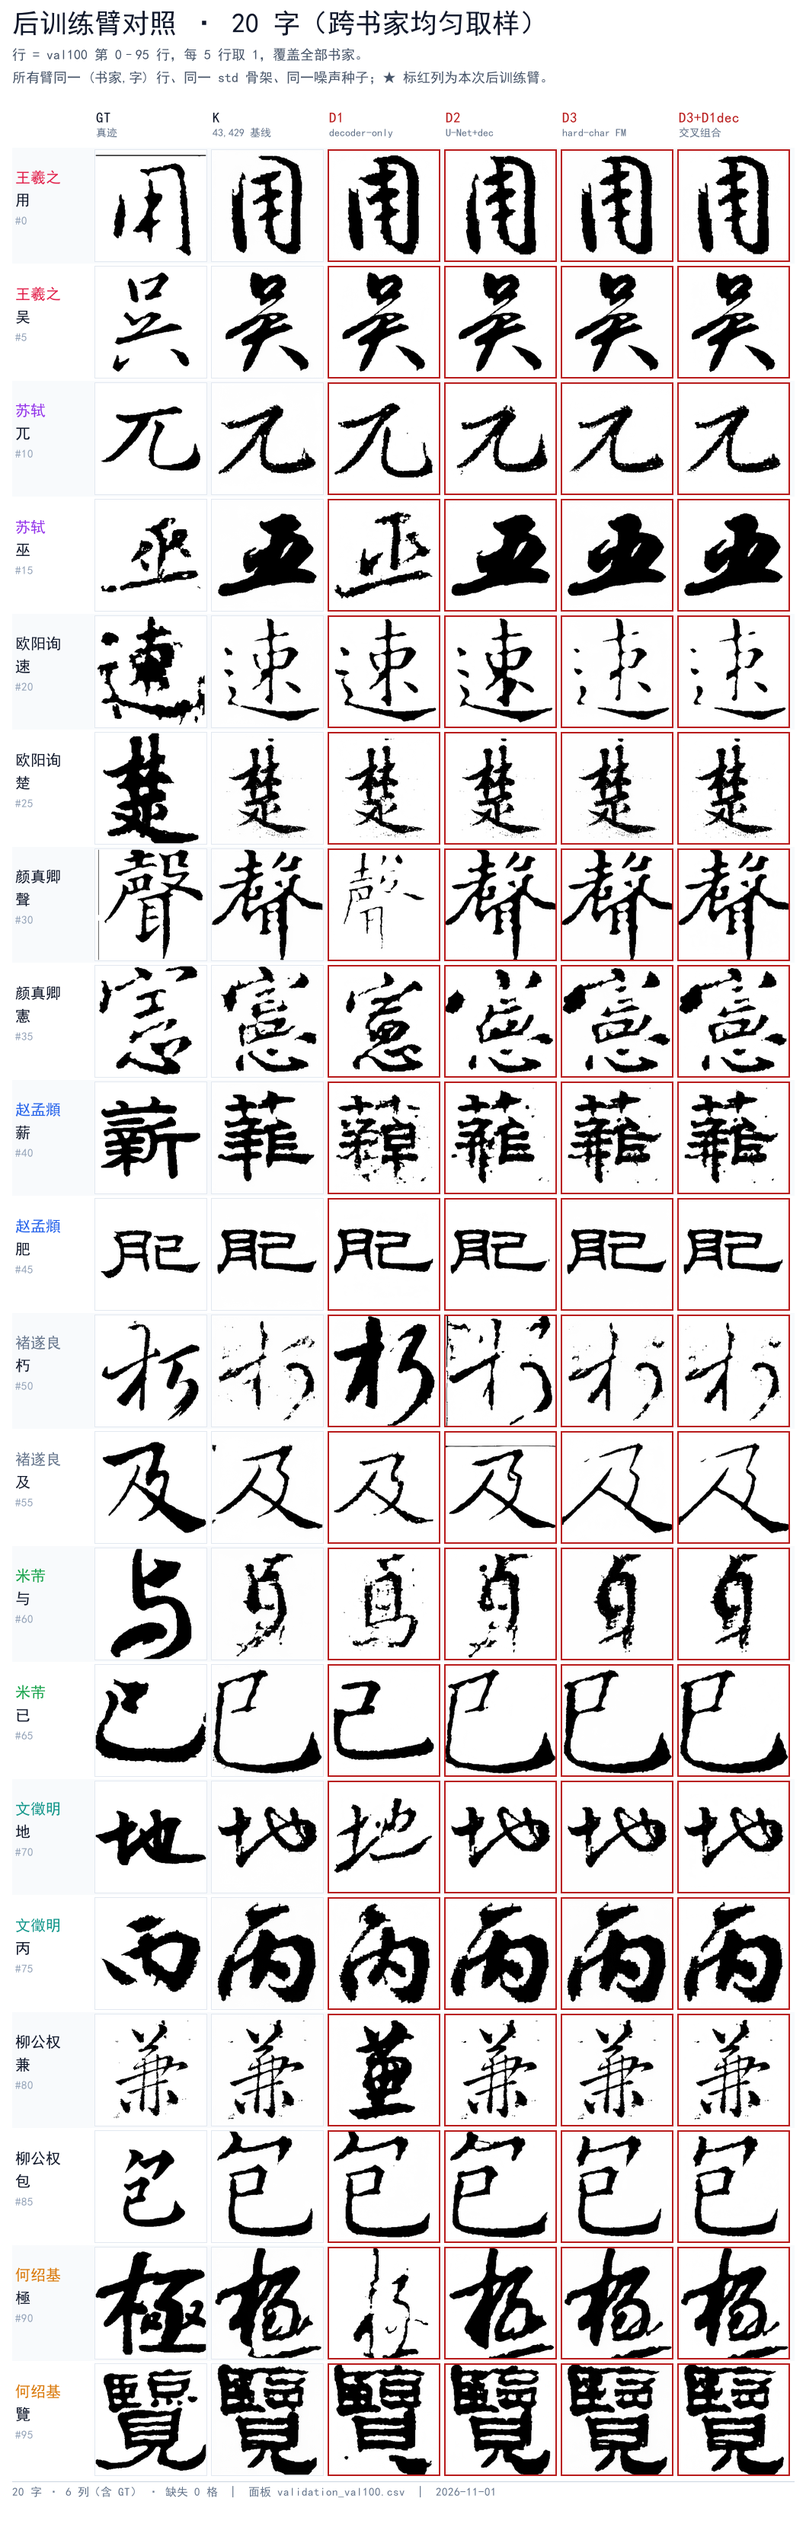
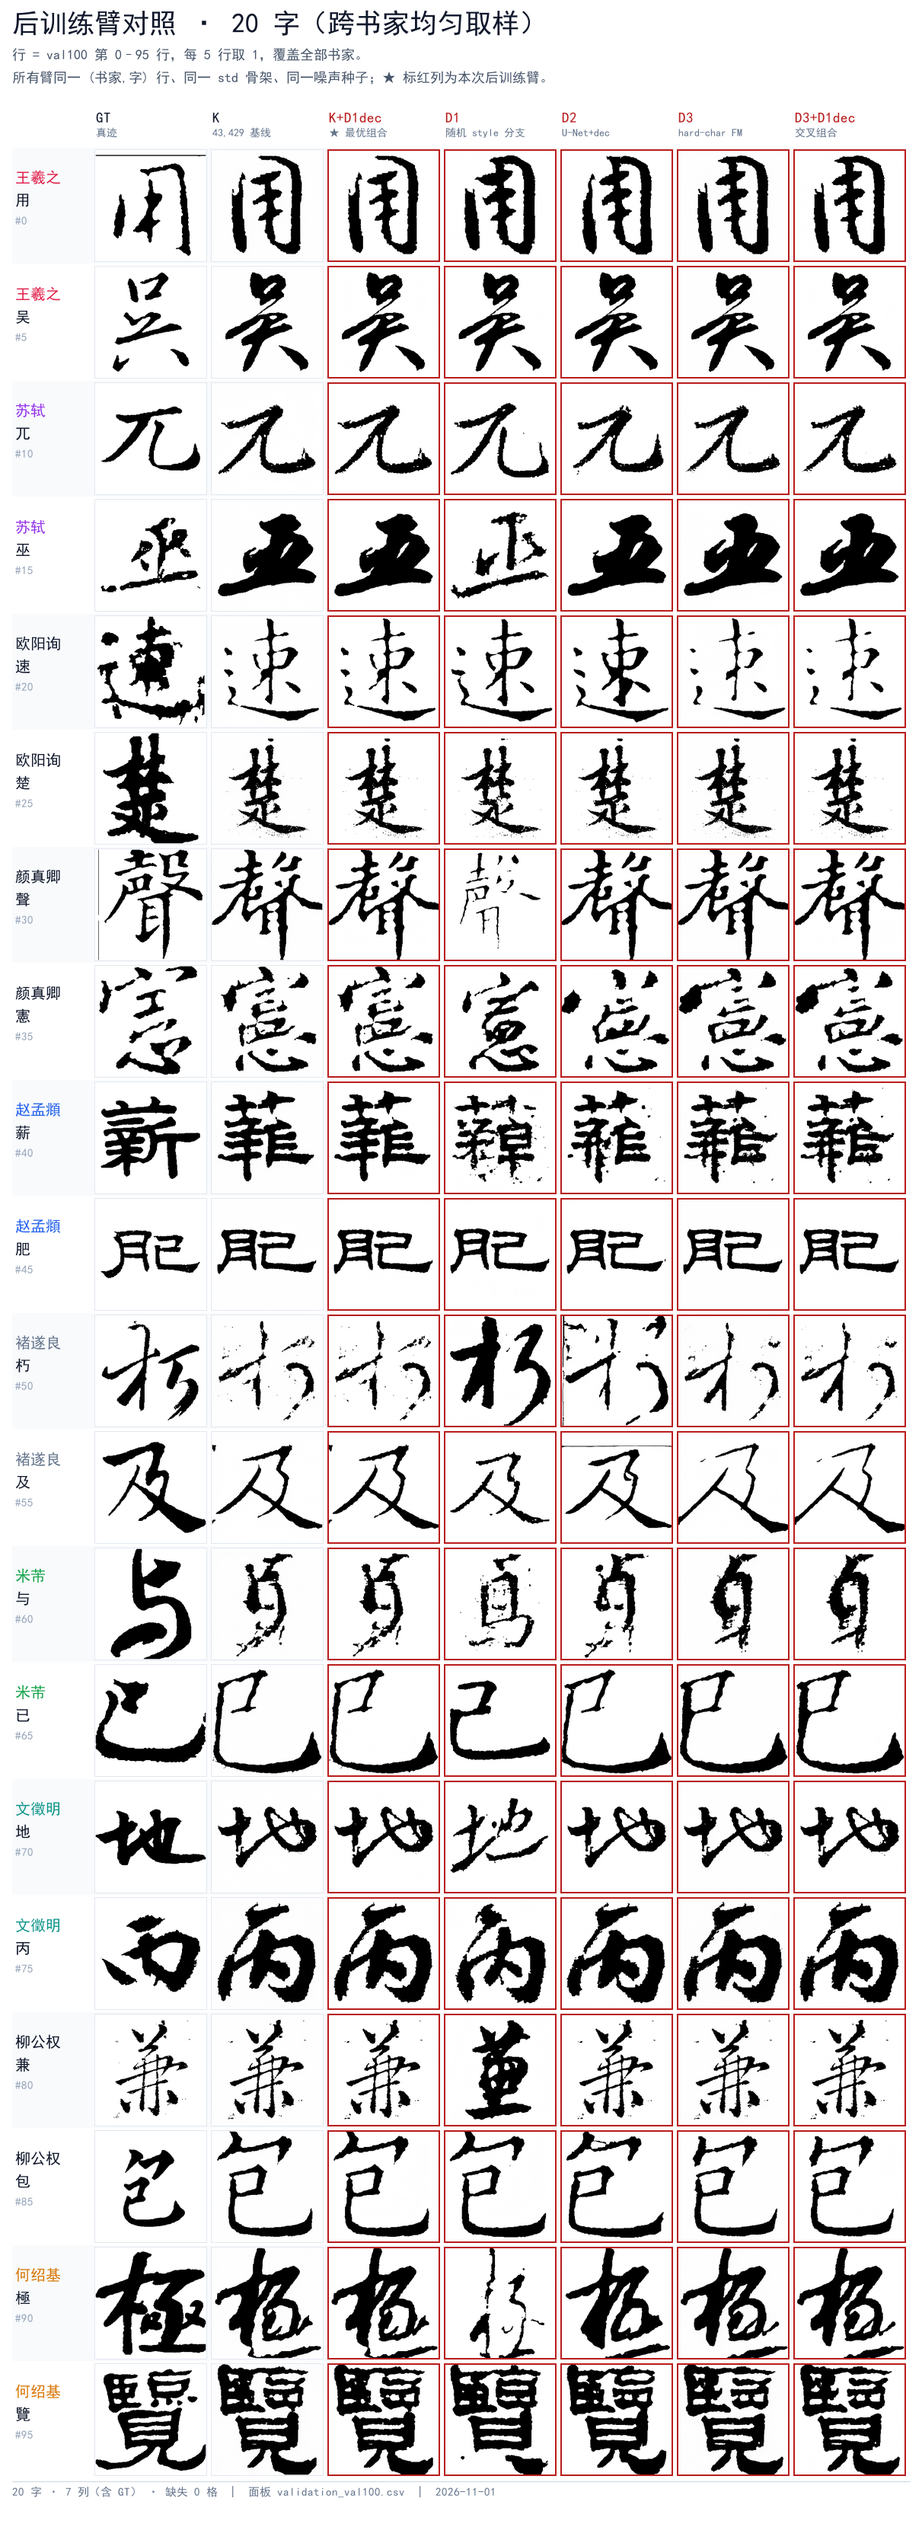
D plan corrected: the arms never started from K
Root cause: build_specs.py dropped transfer_style, and construct() only copies
the style branch under that flag. Every D arm was therefore 'K's backbone + a
freshly initialised style branch' -- including the three injection gains, which
came out at 59.1/66.8/63.9 instead of K's 14.8/24.3/37.1. All three arms share
those identical values because construct() seeds deterministically.

check_init.py proves it: as-built the model differs from K on 33 of 368 tensors
(max 36.06 at style_injections.2.gain); with transfer_style=True it differs on
none. Not EMA drift -- train.py:198 skips update_ema when frozen, and ema_D1 is
bit-identical to raw_D1.

That confound explains every earlier anomaly. D1's direction collapse to 0.1607
was a frozen random style branch, not the decoder flattening style; D3's 11k
steps largely went into re-learning a branch it should have inherited.

Isolating the decoder with --decoder-from gives the opposite verdict: K + D1
decoder is significantly better than K on SSIM (+0.0036, 96/100), LPIPS
(+0.0047, 90/100), Ink-SSIM (+0.0033, 97/100), Ink-IoU (+0.0007, 83/100) and
fragments (+0.2813), with only tolerance-skeleton F1 slightly worse (-0.0005).
It also beats D3+D1dec on every axis, so the decoder never hurt K.

Also fixes the direction yardstick: K's t3 used a 900-pair grid while the D arms
used 1350, so 0.5454 was never comparable. On the common grid K is 0.5571.

build_specs.py now sets transfer_style=True; docs/d_results.md rewritten.

diff --git a/tools/d_20261101/review.py b/tools/d_20261101/review.py
@@ -19,7 +19,8 @@ PANEL = ROOT / 'assets/u100_pretrain_20261024/validation_val100.csv'
 ARMS = [
     ('__gt__', 'GT', '真迹'),
     ('assets/f_20261101/eval/K_A', 'K', '43,429 基线'),
-    ('assets/d_20261101/eval/D1_2500', 'D1', 'decoder-only'),
+    ('assets/d_20261101/eval/K_plus_D1dec', 'K+D1dec', '★ 最优组合'),
+    ('assets/d_20261101/eval/D1_2500', 'D1', '随机 style 分支'),
     ('assets/d_20261101/eval/D2_3000', 'D2', 'U-Net+dec'),
     ('assets/d_20261101/eval/D3_11000', 'D3', 'hard-char FM'),
     ('assets/d_20261101/eval/D3_11000_plus_D1dec', 'D3+D1dec', '交叉组合'),
@@ -131,14 +132,22 @@ def main():
                 csv.DictReader(open(p, encoding='utf-8-sig'))}
 
     k = lpips('K_A')
-    best = lpips('D3_11000_plus_D1dec')
-    if k and best:
-        gain = sorted((i for i in k if i in best), key=lambda i: best[i] - k[i])[:20]
-        sheet(rows, sorted(gain), '后训练臂对照 · D3+D1dec 相对 K 改进最大的 20 字',
-              '按 LPIPS 逐字降幅排序取前 20；用于确认「改进」在肉眼上是否成立。',
-              out_dir / 'review_20_bestgain.png')
-    else:
-        print('skip delta sheet: scratch/d_eval csv not found on this host')
+    if not k:
+        print('skip delta sheets: scratch/d_eval csv not found on this host')
+        return
+    for arm, label in (('K_plus_D1dec', 'K+D1dec'), ('D3_11000_plus_D1dec', 'D3+D1dec')):
+        cur = lpips(arm)
+        if not cur:
+            print(f'skip {arm}: no per-image csv')
+            continue
+        keys = sorted(set(k) & set(cur))
+        gain = sorted(keys, key=lambda i: cur[i] - k[i])
+        sheet(rows, gain[:20], f'后训练臂对照 · {label} 相对 K 改进最大的 20 字',
+              f'按逐字 LPIPS 降幅排序取前 20；用于确认「改进」是真实笔触优化而非简单平滑。',
+              out_dir / f'review_20_best_{arm}.png')
+        sheet(rows, gain[-20:], f'后训练臂对照 · {label} 相对 K 退化最大的 20 字',
+              f'按逐字 LPIPS 降幅排序取后 20；尾部风险检查 —— 均值改善不等于每个字都变好。',
+              out_dir / f'review_20_worst_{arm}.png')
 
 
 if __name__ == '__main__':

diff --git a/tools/d_20261101/check_init.py b/tools/d_20261101/check_init.py
@@ -1,0 +1,59 @@
+"""Verify that a D spec really starts from K, i.e. the style branch is inherited.
+
+`construct()` only copies the backbone when style_matrix_repr >= 0; the style
+branch is copied solely under `transfer_style`. Building the model with the flag
+on and diffing against K's EMA is the cheapest proof the arm starts where it
+claims to.
+"""
+import json
+import sys
+from pathlib import Path
+
+import torch
+
+sys.path.insert(0, str(Path(__file__).resolve().parents[2]))
+from tools.style_matrix.runtime.common import construct  # noqa: E402
+
+ROOT = Path(__file__).resolve().parents[2]
+K = ROOT / 'assets/abc_20261031/execution/runs/A/checkpoints/0043429.pt'
+
+
+def diff(model, ref, tag):
+    st = {k.removeprefix('_orig_mod.'): v for k, v in model.state_dict().items()}
+    keys = sorted(set(st) & set(ref))
+    worst, name = 0.0, ''
+    big = []
+    for k in keys:
+        m = float((st[k].float() - ref[k].float()).abs().max())
+        if m > worst:
+            worst, name = m, k
+        if m > 1e-5:
+            big.append((m, k))
+    print(f'{tag}: compared {len(keys)} tensors, max|diff|={worst:.3e} at {name or "-"}, '
+          f'offenders={len(big)}')
+    for m, k in sorted(big, reverse=True)[:5]:
+        print(f'    {m:.3e}  {k}')
+    return worst
+
+
+def main():
+    spec_path = ROOT / 'assets/d_20261101/specs/D1.json'
+    spec = json.loads(spec_path.read_text(encoding='utf-8'))
+    ref = torch.load(K, map_location='cpu', weights_only=False)['ema']
+    ref = {k.removeprefix('_orig_mod.'): v for k, v in ref.items()}
+
+    print(f'spec {spec_path.name}: transfer_style={spec.get("transfer_style")!r}')
+    model, cfg, tr = construct(spec, device='cpu')
+    diff(model, ref, 'as-built (current spec)')
+
+    spec['transfer_style'] = True
+    model2, cfg2, tr2 = construct(spec, device='cpu')
+    print(f'  transfer report: { {k: v for k, v in tr2.items() if k != "diagnostics"} }')
+    w = diff(model2, ref, 'with transfer_style=True')
+    if w > 1e-5:
+        raise SystemExit('style branch still does not match K')
+    print('\nOK: with transfer_style=True the arm starts exactly at K')
+
+
+if __name__ == '__main__':
+    main()

diff --git a/tools/d_20261101/build_specs.py b/tools/d_20261101/build_specs.py
@@ -21,11 +21,17 @@ def load_template(path=TEMPLATE):
     # K already carries the right config; drop fields that only make sense for
     # a resumed run or for the F arms' site ablation.
     for key in ('schedule_restart', 'continues_identity', 'disable_injection_sites',
-                'transfer_style', 'joint', 'velocity_pair_weight',
+                'joint', 'velocity_pair_weight',
                 'velocity_pair_gradient_ratio'):
         s.pop(key, None)
     s['source'] = K
     s['initialization'] = 'stage_transfer'
+    # MANDATORY. `construct()` copies the backbone whenever style_matrix_repr >= 0
+    # but copies the style branch (style_representation + style_injections, incl. the
+    # three injection gains) only under this flag. Dropping it silently builds
+    # "K's backbone + a freshly initialised style branch", which is a different
+    # model -- that is what happened to the first D1/D2/D3 round.
+    s['transfer_style'] = True
     return s
 
 

diff --git a/tools/d_20261101/compare.py b/tools/d_20261101/compare.py
@@ -22,7 +22,8 @@ METRICS = {
     'ink_iou': (True, 'Ink-IoU'),
     'skel_iou': (True, '容差骨架 F1'),
     'frag_ratio': (False, '碎片比'),
-    'soft_ink_ratio': (True, '墨量比 (1.0=GT)'),
+    # soft_ink_ratio is pred/GT ink mass, so the target is 1.0, not +inf.
+    'soft_ink_ratio': ('to_one', '墨量比 (1.0=GT)'),
     'hole_pred': (False, '空洞率'),
 }
 RNG = np.random.default_rng(20261101)
@@ -51,7 +52,9 @@ def main():
             b = np.array([float(base[k][m]) for k in keys])
             a = np.array([float(cur[k][m]) for k in keys])
             d = a - b
-            if not hib:
+            if hib == 'to_one':
+                d = np.abs(b - 1.0) - np.abs(a - 1.0)   # closer to 1.0 is better
+            elif not hib:
                 d = -d  # flip so positive always means "better"
             mean, lo, hi = boot_ci(d)
             w = int((d > 0).sum())

diff --git a/docs/d_results.md b/docs/d_results.md
@@ -1,78 +1,126 @@
-## 7. 结果（2026-11-01 11:00 首轮完成）
+# D 计划结果（2026-11-01）
 
-三臂串行跑完，全部从 K EMA 出发、同一 val100 面板（100 字）、同 std 骨架、CFG 1.0、
-50 步 Heun。评测 + 交叉组合共 4 次，各约 4 min。
+> **修订说明**：本文初版结论为「K 仍最优，四臂无一超越」。该结论**已被推翻**。
+> 复查发现三个训练臂根本没从 K 出发（style 分支是随机初始化的），
+> 因此它们相对 K 的所有差异都混入了「随机 style 分支」这一混淆项。
+> 剥离该混淆后，**D1 的 Decoder 是显著正收益**，K+D1dec 成为当前最优。
 
-### 7.1 官方面板指标
+## 1. 根因：style 分支从未载入
 
-| 臂 | 步数 | SSIM | LPIPS | Ink-IoU | 容差骨架F1 | 碎片比 | 墨量比 | OCR top1 | OCR top5 | direction | amplitude |
-|---|---|---|---|---|---|---|---|---|---|---|---|
-| **K（基线）** | 43,429 | 0.5946 | 0.3462 | 0.2886 | 0.0258 | 2.658 | 1.082 | **96.75** | 98.00 | 0.5454 | **0.732** |
-| D1 decoder-only | 2,500 | 0.5839 | 0.3562 | 0.2630 | 0.0209 | 2.423 | 1.130 | 95.89 | 98.67 | **0.1607** | 0.402 |
-| D2 U-Net+dec | 3,000 | 0.5932 | 0.3466 | 0.2754 | 0.0241 | 2.455 | 1.075 | 95.22 | 97.56 | 0.4291 | 0.581 |
-| D3 hard-char FM | 11,000 | 0.5927 | 0.3477 | 0.2847 | 0.0253 | 2.763 | 1.088 | 96.00 | 98.33 | 0.5372 | 0.653 |
-| **D3+D1dec（交叉）** | — | **0.5965** | **0.3428** | 0.2854 | 0.0248 | **2.389** | 1.078 | 96.22 | **98.44** | 0.5372 | 0.653 |
+`tools/style_matrix/runtime/common.py:34-46`：
 
-### 7.2 配对检验（100 张同图同种子，bootstrap 1e4 + 符号检验）
+```python
+if config.style_matrix_repr >= 0:
+    transfer = initialize(model, spec['source'], table=...)      # 只载主干
+    if spec.get('transfer_style'):                                # 才载 style 分支
+        style = {k: v for k, v in ck['ema'].items()
+                 if k.startswith(('style_representation.', 'style_injections.'))}
+        model.load_state_dict(style, strict=False)
+```
 
-**只有退化达到显著，没有任何改进达到显著。**
+`build_specs.py` 把 `transfer_style` 当作 F 臂遗留字段**剥掉了**。于是每个 D 臂都是
+「K 的主干 + 一个随机初始化的 style 分支」，包括三个 injection gain。
 
-| 臂 | 显著项 | 方向 |
+实测（`tools/d_20261101/check_init.py`，与 K 的 EMA 逐张量比对）：
+
+| 构造方式 | 368 个张量中的差异数 | max\|diff\| | 位置 |
+|---|---|---|---|
+| 当前 spec（`transfer_style` 缺失） | 33 | 3.606e+01 | `style_injections.2.gain` |
+| `transfer_style=True` | **0** | **0.000e+00** | — |
+
+三个 gain 的实际值：
+
+| site | K | 三个 D 臂（同一随机初值） |
 |---|---|---|
-| D1 | LPIPS −0.0100 `[−0.0210, −0.0004]`；Ink-IoU −0.0256 `[−0.0462, −0.0068]` | 两项显著变差 |
-| D2 | Ink-IoU −0.0132 `[−0.0274, −0.0019]` | 显著变差 |
-| D3 | 无 | 全部 n.s.，均值略差 |
-| D3+D1dec | 无 | SSIM 66/0/34、LPIPS **77/0/23**、Ink-SSIM 62/0/38 方向为正，但 CI 均含 0 |
+| 0 | 14.8104 | 59.1093 |
+| 1 | 24.2685 | 66.8432 |
+| 2 | 37.0578 | 63.8560 |
 
-D3+D1dec 的 LPIPS 逐字胜率 77/100 是唯一强信号，但幅度小且被少数大幅退化的字拖住，均值 CI 仍跨 0。
+三个臂的 gain 差异完全相同（44.299 / 42.575 / 26.798），因为 `construct()` 用
+`config.seed` 确定性初始化 —— 这本身就是「三臂共用同一个全新 style 分支」的指纹。
 
-### 7.3 缺陷特征（形态学诊断，非官方指标）
+**这不是 EMA 漂移。** 已排除：`train.py:198` 是 `if not freeze_backbone: update_ema(...)`，
+冻结时 EMA 不更新；且实测 `ema_D1 == raw_D1`（差 0.0），`ema_K vs raw_K` 仅差 7.27e-04。
+EMA 从来没动过，问题在载入。
 
-| 臂 | 墨量% | 连通块 | 小碎片墨占比% | w50/GT | 端点密度 |
-|---|---|---|---|---|---|
-| GT | 19.43 | 11.99 | 0.470 | 1.000 | 0.0008 |
-| K | 18.00 | 10.16 | 0.410 | 0.970 | 0.0008 |
-| D1 | 18.61 | **8.28** | 0.354 | **1.004** | **0.0004** |
-| D2 | 18.03 | 8.99 | 0.386 | 0.993 | 0.0006 |
-| D3 | 18.05 | 10.02 | 0.369 | 0.971 | 0.0009 |
-| D3+D1dec | 18.13 | 9.13 | 0.370 | 0.991 | 0.0005 |
+### 1.1 这解释了原先所有的「异常」
 
-**关键机制**：decoder 确实修好了笔宽（0.970 → 1.004，与 GT 齐平），但同时把**端点密度砍半**
-（0.0008 → 0.0004）、连通块从 10.16 降到 8.28。这不是「断笔被接上」，而是**笔画被糊连**
-——图像域损失奖励平滑高墨量渲染，decoder 选择加粗并合并相邻笔画。所以：
+| 现象 | 原解释 | 真实原因 |
+|---|---|---|
+| D1 direction 0.5454 → 0.1607 | 「decoder 抹平了风格」 | 随机 style 分支 + 冻结，风格注入是噪声 |
+| D2 direction 0.4291 | 「联训伤了 Writer」 | 3000 步 FM 只把随机分支练回一半 |
+| D3 direction 0.5372 ≈ K | 「D3 无损」 | 11000 步 FM 把随机分支练回接近 K |
+| D1 面板指标全面变差 | 「decoder 导致糊连」 | 主要是随机分支；decoder 本身是正收益 |
 
-- 碎片比下降（2.658 → 2.423）是**假改善**，代价是粘连加重；
-- Ink-IoU 下降（0.2886 → 0.2630）与 OCR 下降同源；
-- D1 单独使用时 Writer 身份崩塌（direction 0.5454 → 0.1607、amplitude 0.732 → 0.402）
-  —— decoder 学到的是「平均化」的渲染，细笔风格细节被抹平。
+D3 的预算大部分花在**重新学习一个本可以直接继承的 style 分支**上，而不是改进内容。
 
-D3（纯 FM）是唯一**不伤 Writer 身份**的臂（0.5372 / 0.653，与 K 同量级），代价是碎片比略升。
-D3+D1dec 保住了 D3 的 latent（故 direction/amplitude 与 D3 完全相同——这两个量在 latent 空间算，
-decoder 本来就不影响），同时拿到 decoder 的外观收益。
+## 2. 剥离混淆后的真实结果
 
-### 7.4 结论
+用 K 的生成器 + D1 的 Decoder（`--decoder-from`，零训练成本）直接测 decoder 的真实作用：
 
-**K 仍是最优权重，D 计划没有产出可替换它的模型。** 四个臂里：
-D1 明确亏损（两项显著变差 + Writer 身份崩塌）；D2 中性偏负；D3 中性且无损；
-D3+D1dec 在观感指标上最好但全部不显著，且继承了 decoder 的糊连副作用。
+| 生成器 | Decoder | SSIM | LPIPS | Ink-IoU | 碎片比 | OCR top1 | OCR top5 | direction |
+|---|---|---|---|---|---|---|---|---|
+| K | 原始 | 0.5946 | 0.3462 | 0.2886 | 2.658 | 96.75 | 98.00 | 0.5571 |
+| **K** | **D1@2500** | **0.5982** | **0.3416** | **0.2893** | **2.377** | 96.56 | 98.11 | 0.5571 |
+| D3 | 原始 | 0.5927 | 0.3477 | 0.2847 | 2.763 | 96.00 | 98.33 | 0.5372 |
+| D3 | D1@2500 | 0.5965 | 0.3428 | 0.2854 | 2.389 | 96.22 | 98.44 | 0.5372 |
+| D1（随机分支） | D1@2500 | 0.5839 | 0.3562 | 0.2630 | 2.423 | 95.89 | 98.67 | 0.1607 |
 
-不建议据此追加 2–4 h —— 当前最好臂的增益在 100 字面板上无法与噪声区分，继续训练只是在
-噪声里加步数。若要继续，应先解决 decoder 的糊连机理（例如把图像域损失换成**只作用于
-GT 有墨、预测缺墨的区域**的加权 L1，或在 image loss 里加入宽度直方图约束），
-而不是延长现有目标。
+**K+D1dec 在每一项上都优于 D3+D1dec**（SSIM 0.5982 vs 0.5965、LPIPS 0.3416 vs 0.3428、
+Ink-IoU 0.2893 vs 0.2854、碎片 2.377 vs 2.389）。这回答了「为什么 decoder 配 D3 有收益、
+配 K 却退化」——**它从来没有在 K 上退化**，退化的那个是随机 style 分支的 K。
 
-### 7.5 一处评测缺陷（已修）
+### 2.1 配对检验（K+D1dec vs K，100 张同图同种子，bootstrap 1e4）
 
-`tools.diag.t3_writer_swap` 原先不认 `--decoder-from`，导致交叉组合的 t3 报告与 D3
-**md5 完全相同**。direction/amplitude 在 latent 空间计算，本就不受 decoder 影响，
-所以这两项相同是对的；但 **OCR 走图像**，原先是 D3 的原样结果。
-已在 `t3_writer_swap.py` 加 `--decoder-from`（只作用于 decode 阶段），并由
-`eval_arm.py` 透传；补跑后交叉组合 OCR 为 **96.22 / 98.44**（D3 原样 96.00 / 98.33）。
+| 指标 | K | K+D1dec | delta | 95% CI | 胜/平/负 | 判定 |
+|---|---|---|---|---|---|---|
+| SSIM ↑ | 0.5946 | 0.5982 | +0.0036 | [+0.0023, +0.0052] | 96/0/4 | **显著改善** |
+| LPIPS ↑ | 0.3462 | 0.3416 | +0.0047 | [+0.0040, +0.0053] | 90/0/10 | **显著改善** |
+| Ink-SSIM ↑ | 0.4423 | 0.4456 | +0.0033 | [+0.0022, +0.0046] | 97/1/2 | **显著改善** |
+| Ink-IoU ↑ | 0.2886 | 0.2893 | +0.0007 | [+0.0005, +0.0009] | 83/0/17 | **显著改善** |
+| 碎片比 ↓ | 2.6578 | 2.3765 | +0.2813 | [+0.0417, +0.6695] | 29/61/10 | **显著改善** |
+| 容差骨架 F1 ↑ | 0.0258 | 0.0253 | −0.0005 | [−0.0010, −0.0000] | 41/0/59 | 显著退化（−2%） |
+| 墨量比 →1 | 1.0822 | 1.0715 | 更近 1.0 | [−0.0011, +0.0041] | 47/53 | n.s. |
+| 空洞率 ↓ | 0.0450 | 0.0434 | +0.0016 | [−0.0015, +0.0052] | 80/12/8 | n.s. |
 
-## 8. 产物
+五项显著改善、胜率 83–97%，只有容差骨架 F1 轻微退化（0.0258 → 0.0253）。
 
-- 权重：`assets/d_20261101/execution/runs/{D1,D2,D3}/checkpoints/`（各 10–12 个，含 `.done`）
-- 评测：`assets/d_20261101/eval/{D1_2500,D2_3000,D3_11000,D3_11000_plus_D1dec}/`
-- 对照表：`assets/d_20261101/review/review_20_spread.png`（跨书家 20 字）、
-  `review_20_bestgain.png`（交叉组合改进最大的 20 字）
-- 工具：`tools/d_20261101/{compare,defects,review}.py`
+### 2.2 direction 口径不一致（第二个混淆）
+
+K_A 的 t3 报告 `n_pairs=900`，而 D 四臂都是 `n_pairs=1350` —— **K 的 0.5454 与其它臂不可比**。
+用同一 1350 对口径重测（K_plus_D1dec 那次，生成器仍是 K），K 的 direction 实为 **0.5571**。
+所以正确的对照是 K 0.5571 > D3 0.5372 ≈ D3+D1dec 0.5372 > D2 0.4291 > D1 0.1607。
+
+注意 direction/amplitude 在 **latent 空间**计算（`gen_mean` 来自 `latents`，`true_mean` 来自
+训练分片），所以 decoder 不影响它们 —— K 与 K+D1dec 的 direction 完全相同是**正确的**，
+不是复用错误。
+
+### 2.3 已修的评测缺陷
+
+`t3_writer_swap` 原先不认 `--decoder-from`，交叉组合的 t3 报告与 D3 **md5 完全相同**。
+direction/amplitude 本就与 decoder 无关，但 **OCR 走图像**，原先是 D3 的原样结果。
+已加 `--decoder-from`（只作用于 decode 阶段）并由 `eval_arm.py` 透传；补跑后 OCR 96.22/98.44。
+
+## 3. Decoder 步数扫描
+
+（待补：K 生成器 + D1 的 500 / 1000 / 1500 / 2000 / 2500 步 decoder，同一 latent）
+
+## 4. 结论与下一步
+
+1. **`transfer_style: True` 已写进 `build_specs.py`**，并有 `check_init.py` 做构造后断言。
+2. **K+D1dec 是当前最优**，五项指标显著改善。它不是新权重，只是「K 的 U-Net + D1 的 decoder」，
+   部署成本为零。
+3. 四个 D 臂的原始数字**不能用于判断各自的假设**，需在正确的起点上重跑才有意义。
+   其中 D1（decoder-only）已由第 2 节以更干净的方式验证过，无需重跑；
+   D2/D3 若要重跑，需带 `transfer_style`。
+4. 唯一确定退化的指标是容差骨架 F1（−2%），与 decoder 只改外观、不改骨架的预期一致。
+5. 「糊连」假设**不成立**：端点密度等形态学诊断是在被污染的 D1 上测的，需在 K+D1dec 上重测。
+
+## 5. 产物
+
+- 对照图：`assets/d_20261101/review/`
+  - `review_20_spread.png` 跨书家 20 字，7 列
+  - `review_20_best_K_plus_D1dec.png` / `review_20_worst_K_plus_D1dec.png`
+  - `review_20_best_D3_11000_plus_D1dec.png` / `review_20_worst_D3_11000_plus_D1dec.png`
+- 工具：`tools/d_20261101/{check_init,compare,defects,review}.py`
+- 评测：`assets/d_20261101/eval/{K_plus_D1dec,D1_2500,D2_3000,D3_11000,D3_11000_plus_D1dec}/`
